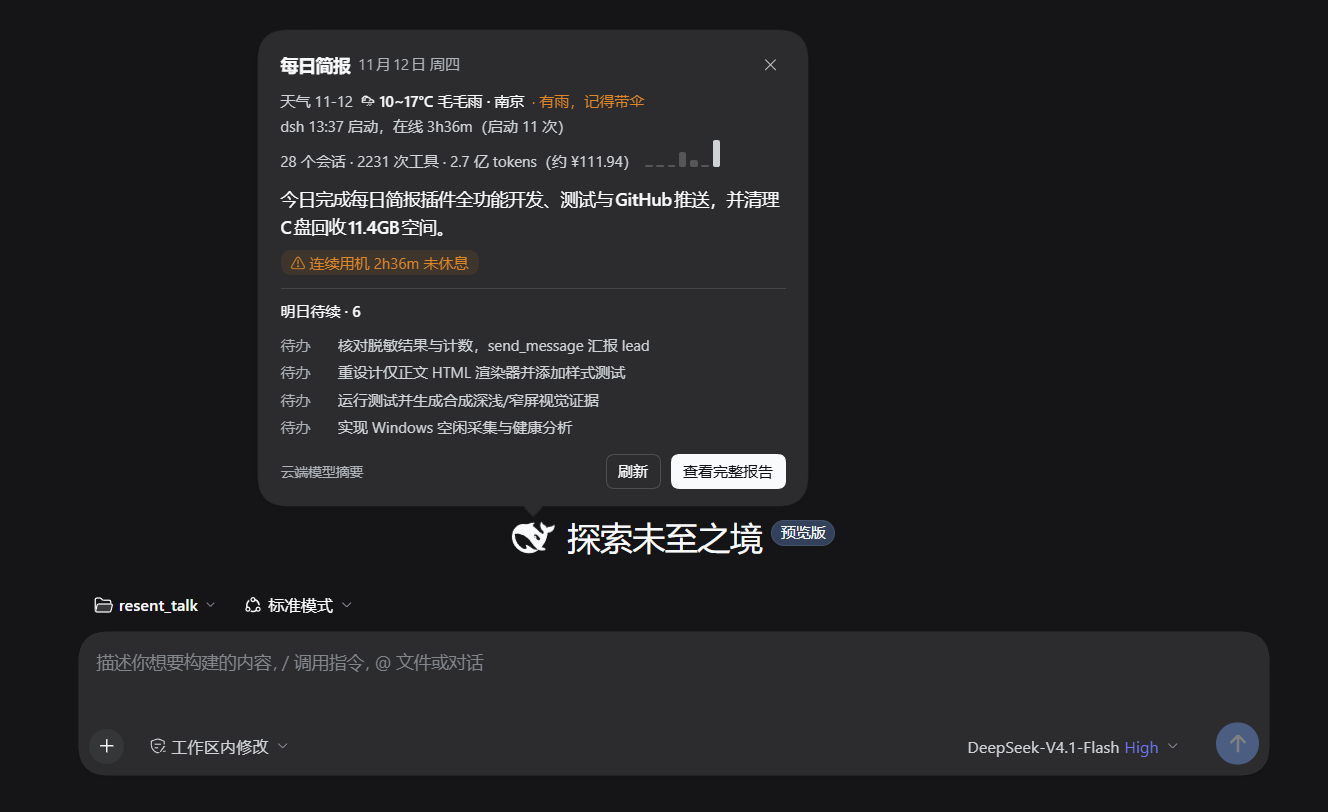
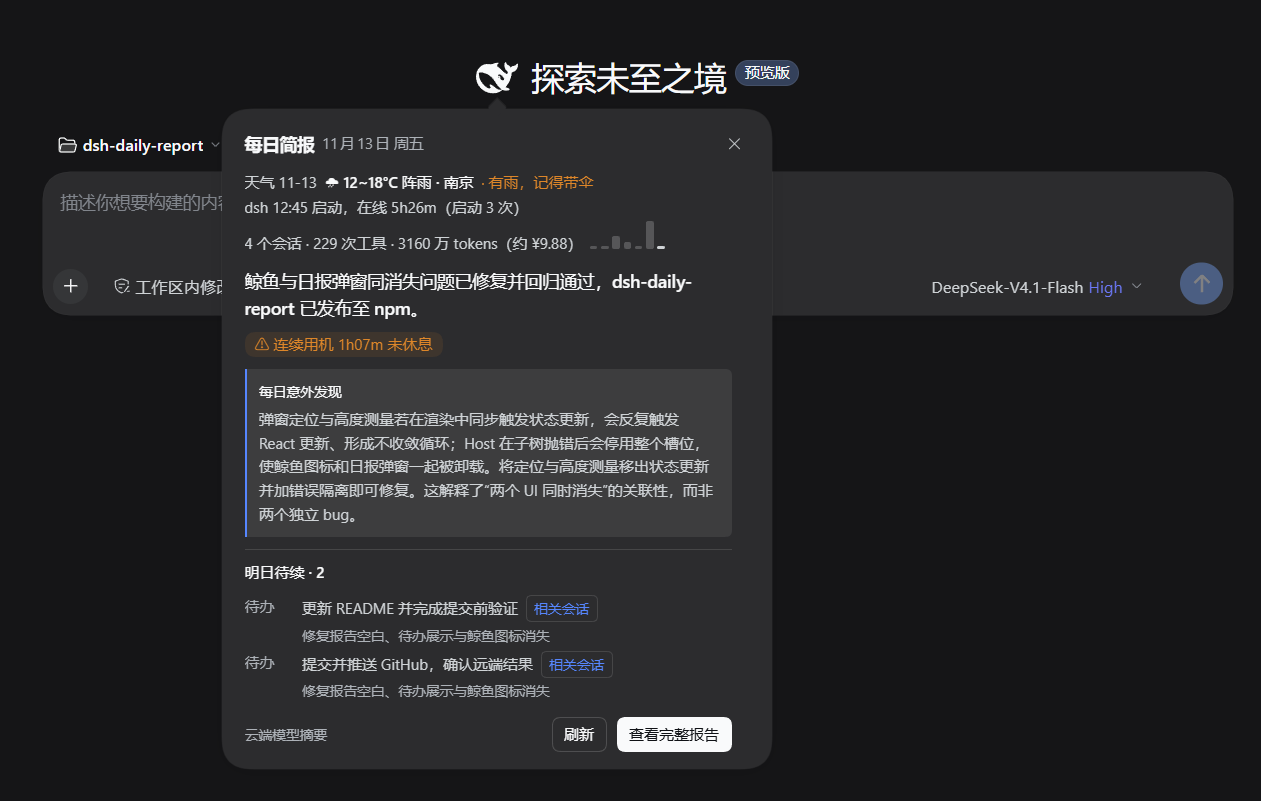
chore(release): 0.3.2
- README 早晨卡片换成真实桌面截图（含每日意外发现、明日待续相关会话入口）
- 升版本到 0.3.2 并补 CHANGELOG

diff --git a/README.md b/README.md
@@ -3,7 +3,7 @@
 把本机的 DSH 会话整理成一份能快速读完的简报：今天做了哪些事、用了多少 token、花了多少钱、哪里卡住、明天接着做什么，外加天气、dsh 启停时间和作息提醒。
 
 [![CI](https://github.com/Yutai233/dsh-daily-report/actions/workflows/ci.yml/badge.svg)](https://github.com/Yutai233/dsh-daily-report/actions/workflows/ci.yml)
-![version](https://img.shields.io/badge/version-0.3.1-blue)
+![version](https://img.shields.io/badge/version-0.3.2-blue)
 ![license](https://img.shields.io/badge/license-MIT-green)
 ![dsh](https://img.shields.io/badge/dsh-%E2%89%A5%200.2.2--rc.1-4A4AFF)
 ![node](https://img.shields.io/badge/node-%E2%89%A5%2022.15-339933)
@@ -30,9 +30,9 @@
 
 ## 界面预览
 
-欢迎页鲸鱼 logo 上方弹出的早晨卡片（真实桌面截图）：
+欢迎页鲸鱼 logo 上方弹出的早晨卡片（真实桌面截图，含「每日意外发现」与「明日待续 → 相关会话」入口）：
 
-![早晨卡片](./docs/images/card-welcome.png)
+![每日简报早晨卡片（真实桌面截图）](./docs/images/card-welcome.png)
 
 日报与周报（由 `test/fixtures/sample-report.mjs` 的合成数据渲染）：
 

diff --git a/CHANGELOG.md b/CHANGELOG.md
@@ -2,6 +2,12 @@
 
 本文件记录 `dsh-daily-report` 的版本变更。格式参考 [Keep a Changelog](https://keepachangelog.com/zh-CN/1.1.0/)，版本号遵循 [语义化版本](https://semver.org/lang/zh-CN/)。
 
+## [0.3.2] - 2026-11-13
+
+### 变更
+
+- README「界面预览」的早晨卡片换成新的真实桌面截图：卡片在欢迎页鲸鱼上方展开，含「每日意外发现」与「明日待续 → 相关会话」入口。无功能改动，仅文档与截图。
+
 ## [0.3.1] - 2026-11-13
 
 ### 新增
@@ -66,3 +72,4 @@
 
 [0.3.0]: https://github.com/Yutai233/dsh-daily-report/releases/tag/v0.3.0
 [0.3.1]: https://github.com/Yutai233/dsh-daily-report/releases/tag/v0.3.1
+[0.3.2]: https://github.com/Yutai233/dsh-daily-report/releases/tag/v0.3.2
